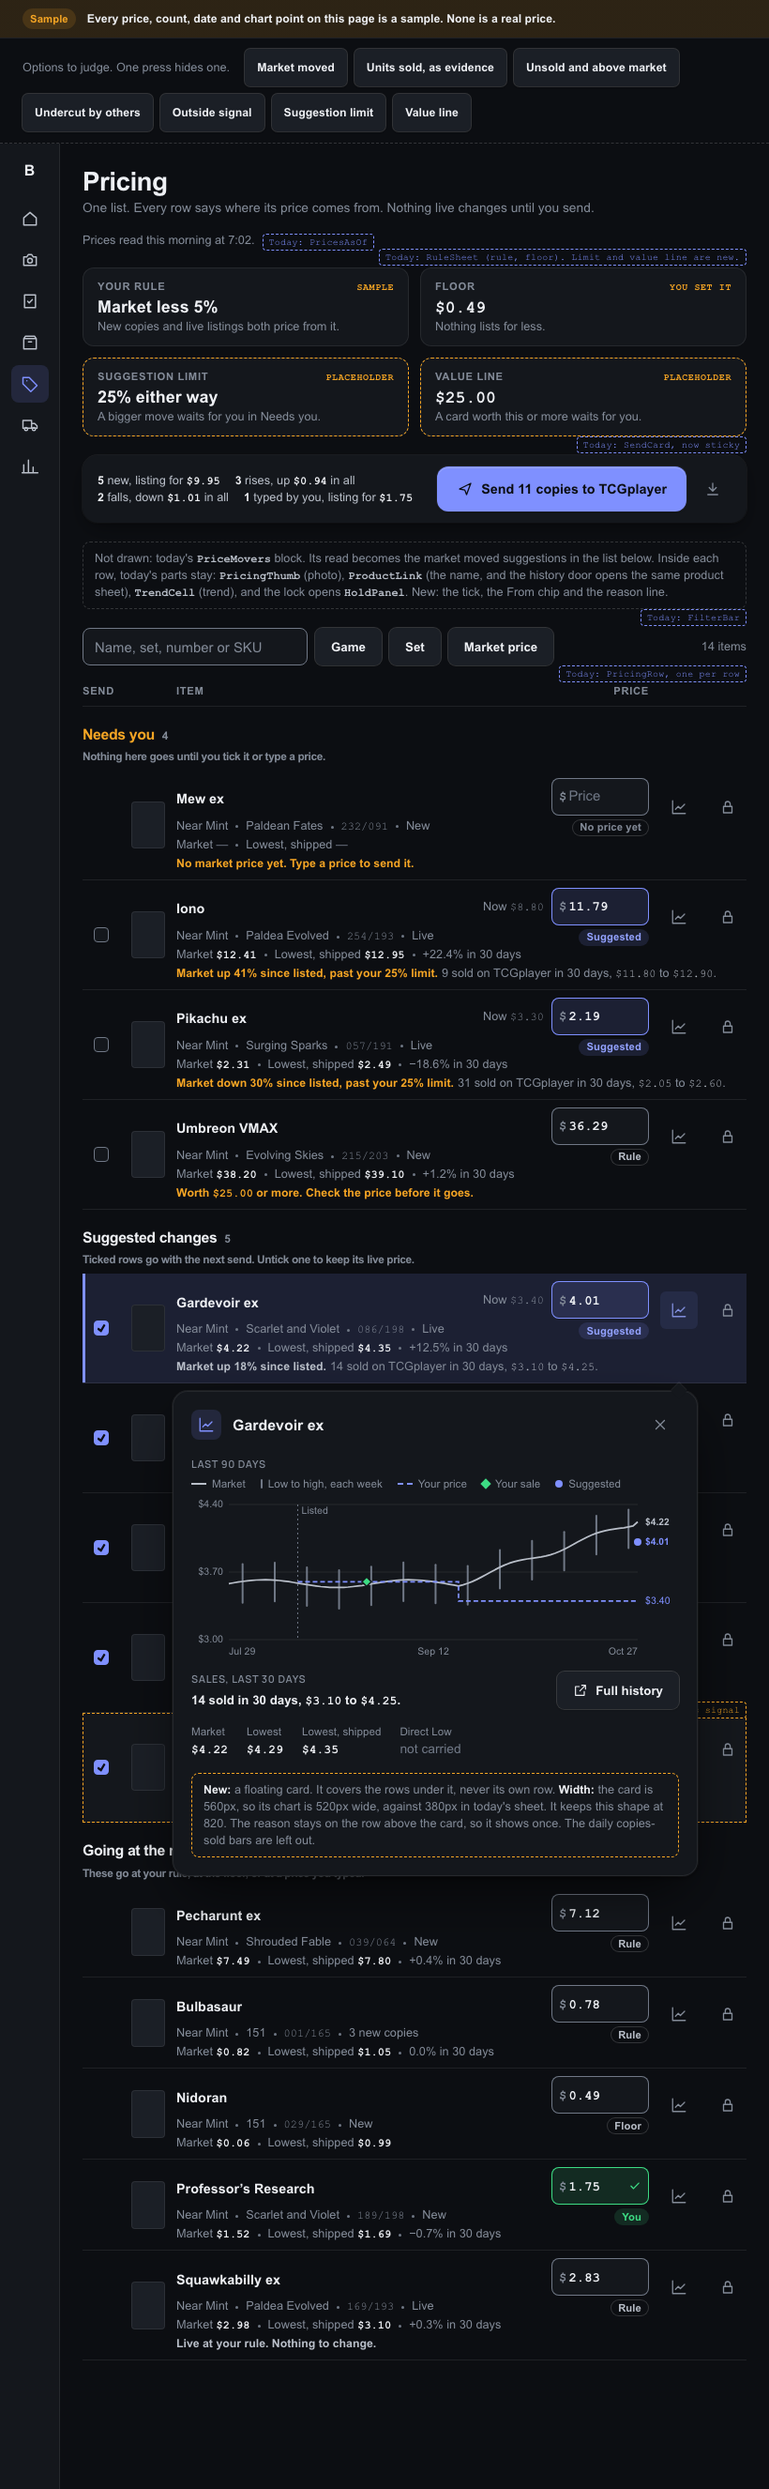
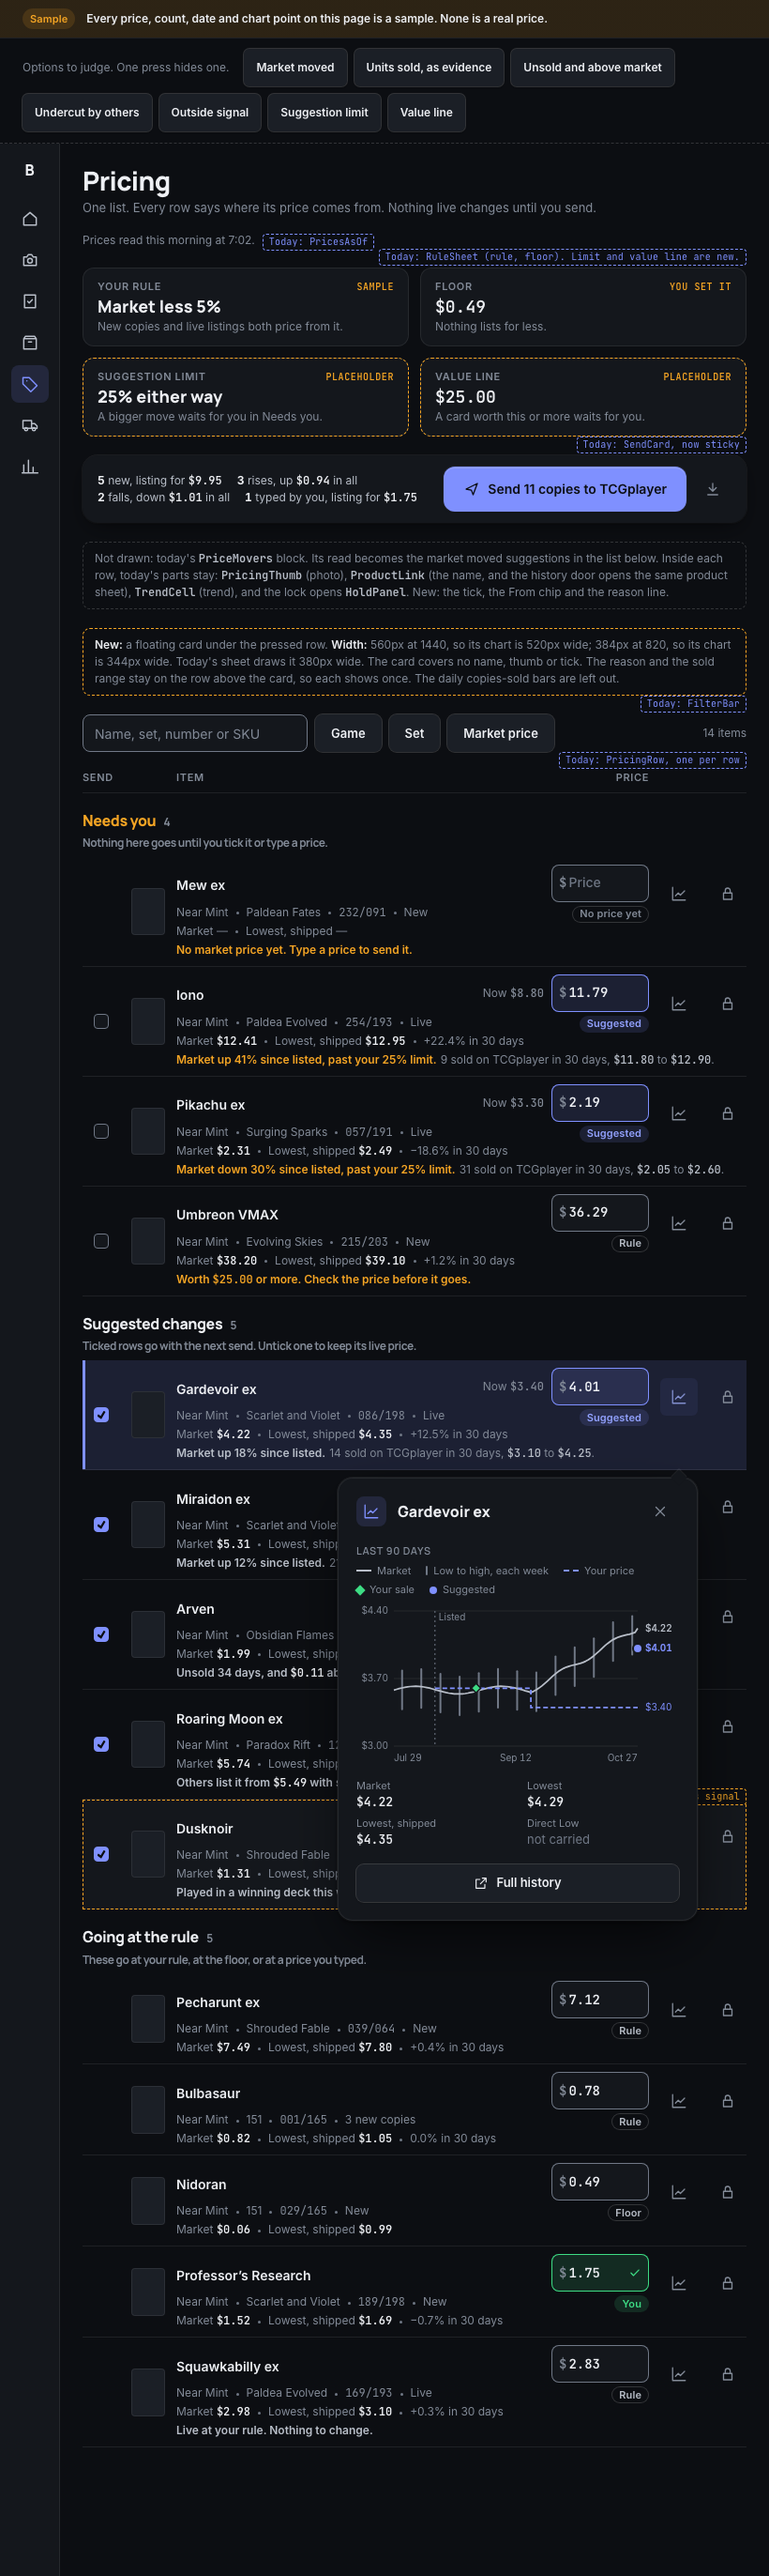
design: floating card history, round 2 fixes
Done: the card is 384px at 820 and covers no name, thumb, tick or heading, the sold range
shows once on the row, the width note sits outside the card, focus moves in and back, and
the notes name what the card covers at each width.
Next: the owner picks one of the four options.

diff --git a/docs/design/pricing-suggest/history-float.html b/docs/design/pricing-suggest/history-float.html
@@ -260,16 +260,19 @@
 
   .fl { position: absolute; z-index: 20; width: 560px; display: flex; flex-direction: column; gap: var(--bn-4);
         padding: var(--bn-4) var(--bn-5) var(--bn-5); border-radius: var(--bn-r-xl); background: var(--bn-surface);
-        box-shadow: var(--bn-shadow-3), inset 0 0 0 1px var(--bn-line); }
+        box-shadow: var(--bn-shadow-3), inset 0 0 0 1px var(--bn-line); outline: none; }
+  .frame[data-w='820'] .fl { width: 384px; }
   .fl[hidden] { display: none; }
   .fl-caret { position: absolute; top: -6px; width: 12px; height: 12px; rotate: 45deg; background: var(--bn-surface);
               box-shadow: -1px -1px 0 var(--bn-line); }
   .fl[data-side='above'] .fl-caret { top: auto; bottom: -6px; box-shadow: 1px 1px 0 var(--bn-line); }
   .fl-head { display: flex; align-items: center; gap: var(--bn-3); }
   .fl-head .hx-name { flex: 1; font-family: var(--bn-font-display); font-size: var(--bn-fs-h3); font-weight: 800; }
-  .fl-row { display: flex; align-items: flex-end; justify-content: space-between; gap: var(--bn-4); }
+  .fl-foot { display: flex; align-items: flex-end; justify-content: space-between; gap: var(--bn-4); }
   .fl .hx-facts { grid-template-columns: repeat(4, auto); justify-content: start; gap: var(--bn-1) var(--bn-5); }
-  .fl-acts .bn-btn { --btn-h: 40px; }
+  .frame[data-w='820'] .fl-foot { flex-direction: column; align-items: stretch; }
+  .frame[data-w='820'] .fl .hx-facts { grid-template-columns: repeat(2, minmax(0, 1fr)); }
+  .fl-foot .bn-btn { --btn-h: 40px; }
   body.nonotes .press-note { display: none; }
   .press-note { font-size: var(--bn-fs-sm); color: var(--bn-ink-3); border: 1px dashed var(--bn-warn);
                 border-radius: var(--bn-r); padding: var(--bn-2) var(--bn-3); }
@@ -605,26 +608,29 @@
   }
 
   /* Option 4: the history door opens a card over the list, under the pressed row. No scrim; the list stays pressable. */
-  function decorate(f) {
-    f.insertAdjacentHTML('beforeend', `<section class="fl mark" role="dialog" aria-label="Price history" data-fl hidden>
+  function decorate(f, w) {
+    const narrow = w === '820'
+    f.querySelector('.gone-note').insertAdjacentHTML('afterend', `<p class="press-note"><b>New:</b> a floating card under the pressed row.
+      <b>Width:</b> 560px at 1440, so its chart is 520px wide; 384px at 820, so its chart is 344px wide. Today's sheet draws it 380px wide.
+      The card covers no name, thumb or tick. The reason and the sold range stay on the row above the card, so each shows once. The daily copies-sold bars are left out.</p>`)
+    f.insertAdjacentHTML('beforeend', `<section class="fl mark" role="dialog" aria-label="Price history for Gardevoir ex" tabindex="-1" data-fl hidden>
       <span class="fl-caret" aria-hidden="true"></span>
-      <header class="fl-head"><span class="bn-overlay-icon">${svg('history', 18)}</span><p class="hx-name" data-fl-name>Gardevoir ex</p>
+      <header class="fl-head"><span class="bn-overlay-icon">${svg('history', 18)}</span><p class="hx-name">Gardevoir ex</p>
         <button class="bn-icon-btn iconb" type="button" aria-label="Close" data-fl-close>${svg('close', 18)}</button></header>
-      <div class="hx-block"><h3 class="hx-h">Last 90 days</h3>${hxLegend()}${hxChart(520, 170)}</div>
-      <div class="fl-row"><div class="hx-block"><h3 class="hx-h">Sales, last 30 days</h3>${hxSold()}</div>
-        <div class="fl-acts"><button class="bn-btn" type="button">${svg('external', 16)}Full history</button></div></div>
-      ${hxFacts()}
-      <p class="press-note"><b>New:</b> a floating card. It covers the rows under it, never its own row. <b>Width:</b> the card is 560px, so its chart is 520px wide, against 380px in today's sheet. It keeps this shape at 820. The reason stays on the row above the card, so it shows once. The daily copies-sold bars are left out.</p>
+      <div class="hx-block"><h3 class="hx-h">Last 90 days</h3>${hxLegend()}${hxChart(narrow ? 344 : 520, 170)}</div>
+      <div class="fl-foot">${hxFacts()}<button class="bn-btn" type="button">${svg('external', 16)}Full history</button></div>
     </section>`)
     const card = f.querySelector('[data-fl]')
     const doorOf = (row) => row.querySelector('[aria-label^="Price history"]')
     let open = null
-    /* Anchored under the row, or above it when the viewport has no room below. Right edge on the row's history door. */
+    /* Anchored under the row, or above it when the viewport has no room below. Right edge on the row's history door.
+       Focus moves into the card on open, and back to the door on close. */
     const place = (row) => {
-      if (open) { delete open.dataset.picked; delete doorOf(open).dataset.on }
+      const was = open
+      if (was) { delete was.dataset.picked; delete doorOf(was).dataset.on }
       open = row
       card.hidden = !row
-      if (!row) return
+      if (!row) { if (was) doorOf(was).focus({ preventScroll: true }); return }
       row.dataset.picked = ''
       const door = doorOf(row)
       door.dataset.on = ''
@@ -634,6 +640,7 @@
       card.style.top = `${(below ? rr.bottom + 8 : rr.top - 8 - card.offsetHeight) - fr.top}px`
       card.style.left = `${dr.right - card.offsetWidth - fr.left}px`
       card.querySelector('.fl-caret').style.left = `${card.offsetWidth - dr.width / 2 - 6}px`
+      card.focus({ preventScroll: true })
     }
     const first = [...f.querySelectorAll('.row')].find((r) => r.querySelector('.name').textContent === 'Gardevoir ex')
     document.fonts.ready.then(() => place(first))
@@ -643,7 +650,7 @@
       if (door) return place(door.closest('.row'))
       if (e.target.closest('[data-fl-close]') || !e.target.closest('[data-fl]')) place(null)
     })
-    addEventListener('keydown', (e) => { if (e.key === 'Escape') place(null) })
+    addEventListener('keydown', (e) => { if (e.key === 'Escape' && open) place(null) })
   }
 
   /* ---- build the frames ---- */

diff --git a/docs/design/pricing-suggest/history-notes.md b/docs/design/pricing-suggest/history-notes.md
@@ -9,8 +9,8 @@ All four draw the same chart: today's `ProductChart` (market line, the low-to-hi
 week, the owner's sales as diamonds), with two new marks: the owner's own asking price as a
 dashed step line from the day it was listed, and the suggestion as a dot. Each states the reason
 and the sold range, "14 sold in 30 days, $3.10 to $4.25", once. In options 1 to 3 they show in
-the history area, and the open row's own reason line steps aside. In option 4 the reason stays on
-the row. The row's 30-day trend is read off the chart's market line, so the two agree.
+the history area, and the open row's own reason line steps aside. In option 4 both stay on the
+row. The row's 30-day trend is read off the chart's market line, so the two agree.
 
 1. **Keep the sheet** (`history-sheet.html`). The history door opens today's `ProductSheet` over
    `ProductHistoryView`, 420px at the right, at 1440 and 820.
@@ -35,15 +35,21 @@ the row. The row's 30-day trend is read off the chart's market line, so the two 
      differently.
    - The Up and Down arrows move the selection. A new key binding must go in `SHORTCUTS` before
      it is done.
-4. **A card floats over the list** (`history-float.html`). The history door opens a 560px card
-   under its row, with no scrim. Its right edge lines up with the door. With no room below the
-   row, it opens above. It closes on Esc, on a press outside it, or on its close button. A press
-   on another row's history door moves it to that row. It keeps this shape at 820.
-   - Gain: the widest chart of the four, 520px against the sheet's 380px. The pressed row, its
-     price, tick and reason stay in view above the card, and the rest of the list stays
-     pressable.
-   - Loss: it covers the rows under it while it is open, including their prices and ticks. The
-     daily copies-sold bars do not fit, so only the sold sentence shows. Its reason comes from
-     the row, not from the card.
+4. **A card floats over the list** (`history-float.html`). The history door opens a card under
+   its row, with no scrim. Its right edge lines up with the door. With no room below the row, it
+   opens above. The card is 560px at 1440 and 384px at 820, so it covers no name, thumb or tick
+   at either width. Its chart is 520px wide at 1440 and 344px at 820, against 380px in today's
+   sheet. It shows the chart and the four prices. The reason and the sold range stay on the row
+   above it, so each shows once.
+   - Gain: at 1440, the widest chart of the four. The pressed row, with its price, tick, reason
+     and sold range, stays in view above the card, and the rest of the list stays pressable.
+   - Loss: it covers part of the four rows under it while it is open. At 1440 that is their
+     Lowest, Trend, Price and From columns, their history doors and locks, and the end of their
+     reason lines. At 820 it is their prices, doors and locks, and the ends of their set, price
+     and reason lines. At 820 its chart is smaller than the sheet's. The daily copies-sold bars do
+     not fit.
+   - Focus moves into the card on open, and back to the history door on close. It closes on Esc,
+     on a press outside it, or on its close button. A press on another row's history door moves it
+     to that row.
    - How it complies with D313 (nothing moves unless the person moved it): nothing in the list
-     moves. The card lies over the list, and only the press opens, moves or closes it.
+     moves. The card lies over the list, and only a press opens, moves or closes it.
